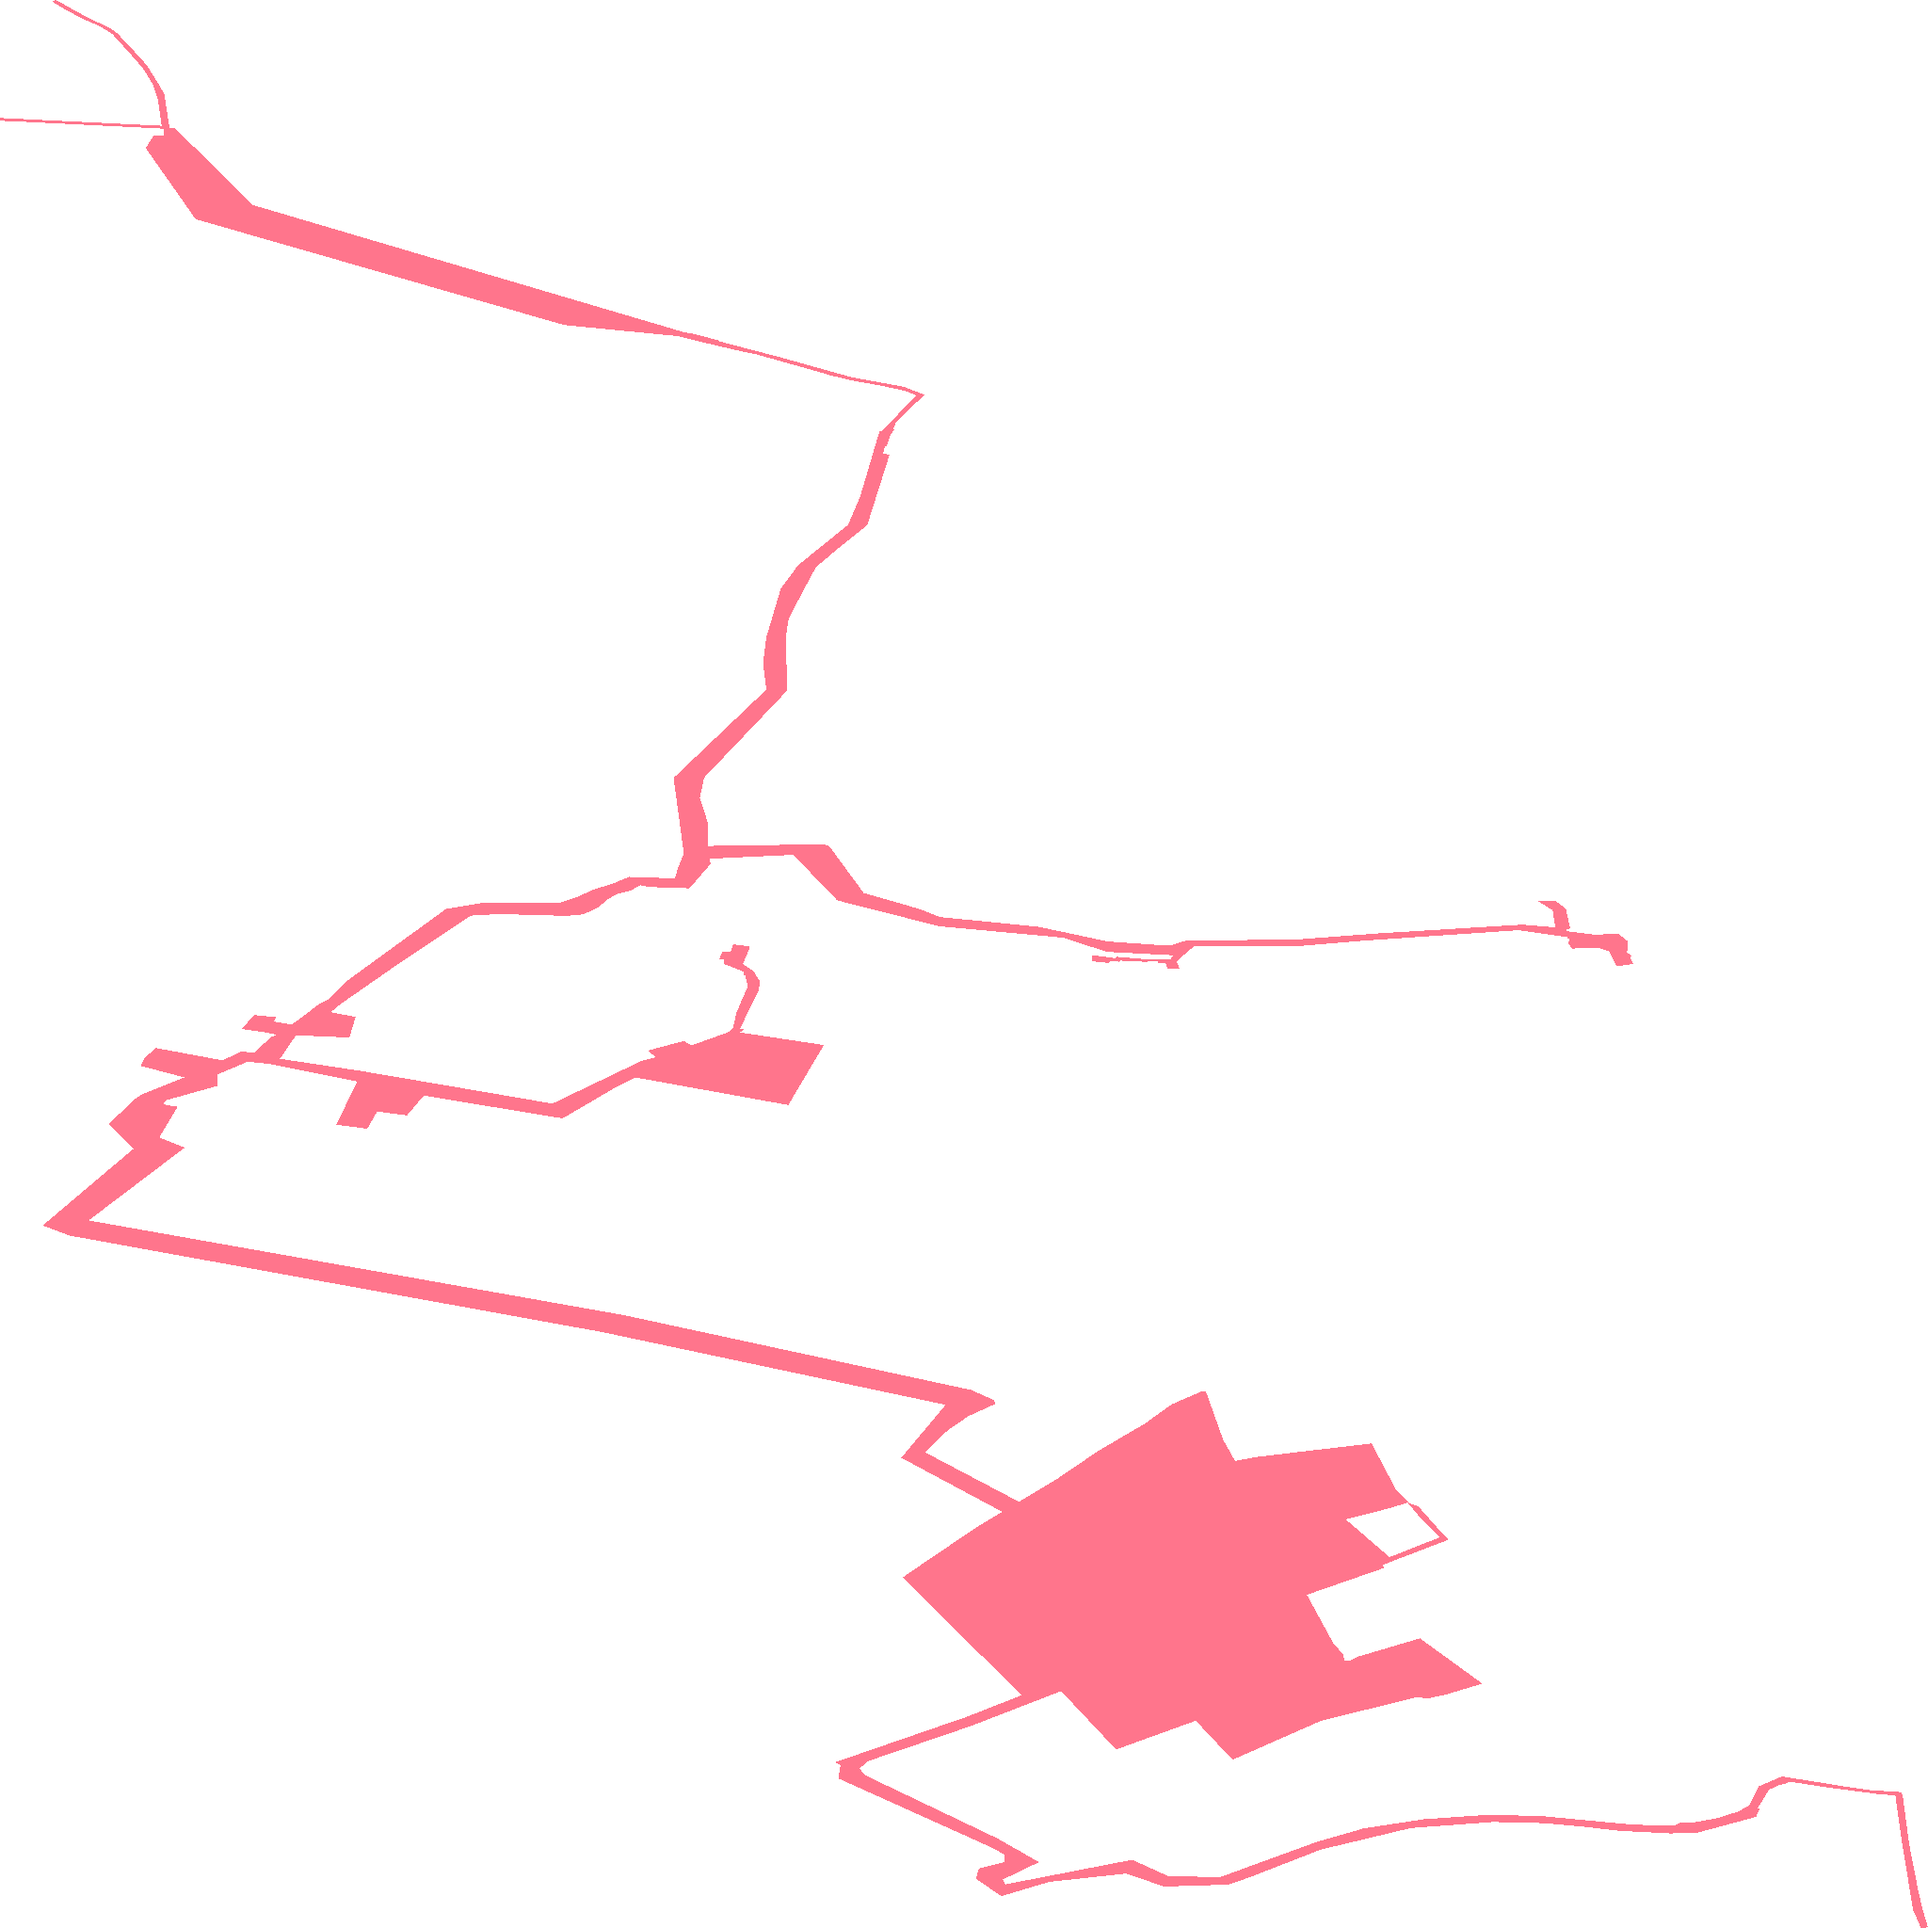
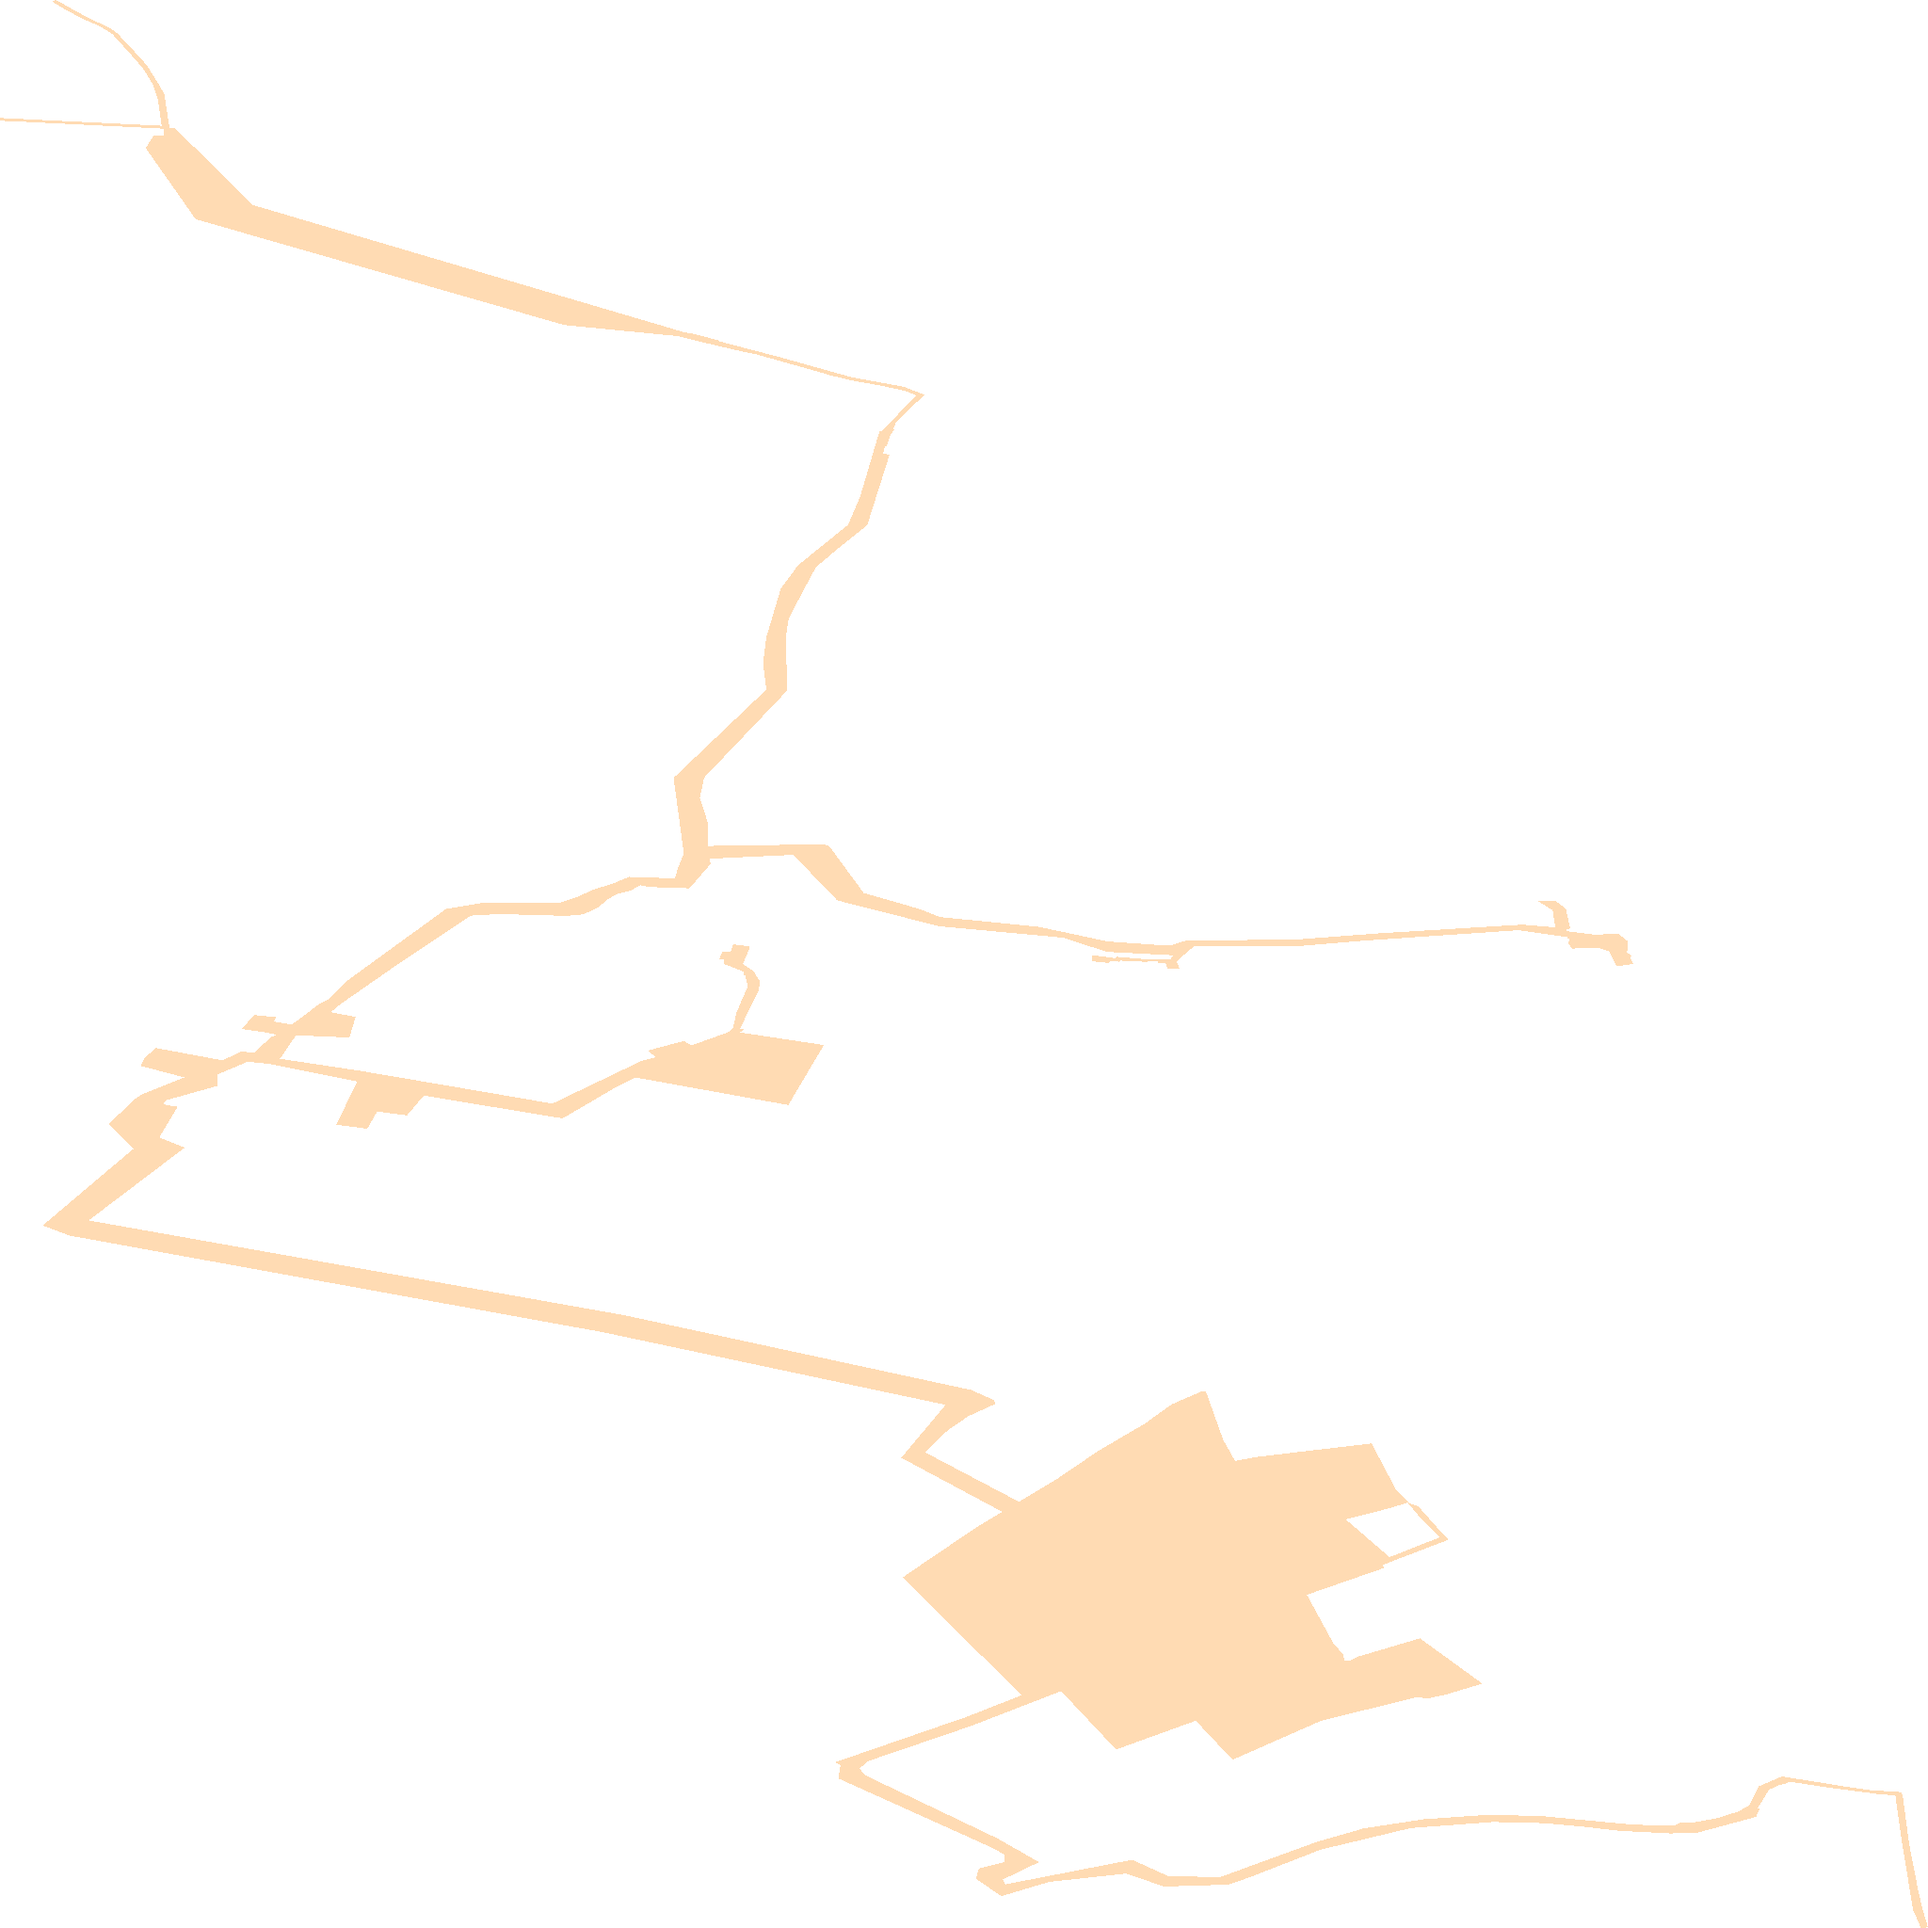
Karte sp_618

diff --git a/sp_618.html b/sp_618.html
@@ -60,7 +60,7 @@
         }
         .custom-control2 {
             position: absolute;
-            bottom: -320px;
+            top: 110px;
             left: 0px;
             background: white;
             padding: 5px;
@@ -77,24 +77,6 @@
         .custom-control:hover, .custom-control2:hover {
             background-color: #f0f0f0 !important;
         }
-        .leaflet-control-geocoder-icon {
-            background-color: white !important;
-            color: grey !important;
-            border: none !important;
-            width: 20px;
-            height: 20px;
-            display: flex;
-            justify-content: center;
-            align-items: center;
-            font-size: 15px;
-            font-family: 'Montserrat', sans-serif;
-            box-shadow: 0 1px 3px rgba(0, 0, 0, 0.3);
-            border-radius: 2px;
-            cursor: pointer;
-        }
-        .leaflet-control-geocoder-icon:hover {
-            background-color: #f0f0f0 !important;
-        }
         .custom-marker {
             width: 15px;
             height: 15px;
@@ -104,8 +86,8 @@
         }
         #legend {
             position: absolute;
-            bottom: 80px;
-            left: 55px;
+            top: 160px;
+            left: 10px;
             display: none;
             z-index: 1000;
             background: white;
@@ -128,8 +110,9 @@
 <body>
     <div id="map"></div>
     <div id="legend">
-        <div><span style="display:inline-block; width:20px; height:10px; background:#FF7F00; margin-right:5px;"></span>Ausbauphase 1: Ausbau bei ausreichender Nachfrage</div>
+        <div><span style="display:inline-block; width:20px; height:10px; background:#FF7F00; margin-right:5px;"></span>Ausbauphase 1: Glasfasernetz vorhanden oder geplant</div>
         <div><span style="display:inline-block;width:20px; height:10px; background:#00143C; margin-right:5px;"></span>Ausbauphase 2: Interessenbekundung möglich</div>
+        <div><span style="display:inline-block;width:20px; height:10px; background:#FFC17D; margin-right:5px;"></span>Ausbauphase 3: Gefördertes Ausbaugebiet </div>
     </div>
     <script>
     const bounds = [[50.493607031, 8.160709663], [50.540310644, 8.195613959]];
@@ -166,20 +149,6 @@
         });
         map.addControl(new legendControl());
         const markerLayerGroup = L.layerGroup().addTo(map);
-        const geocoder = L.Control.geocoder({
-            defaultMarkGeocode: false
-        })
-            .on('markgeocode', function (e) {
-                markerLayerGroup.clearLayers();
-                const latlng = e.geocode.center;
-                const customMarker = L.divIcon({
-                    className: 'custom-marker'
-                });
-                const marker = L.marker(latlng, { icon: customMarker });
-                markerLayerGroup.addLayer(marker);
-                map.fitBounds(bounds);
-            })
-            .addTo(map);
     </script>
 </body>
 </html>
